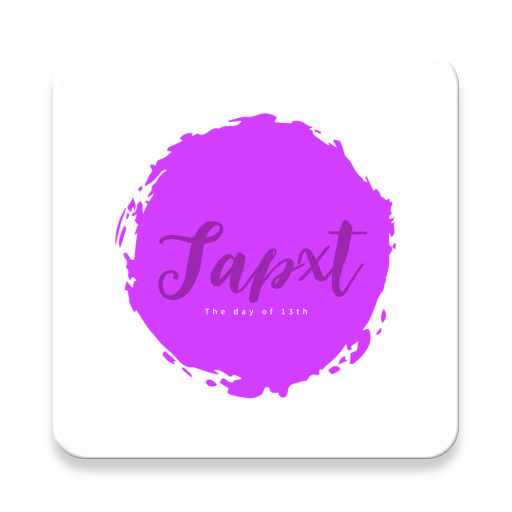
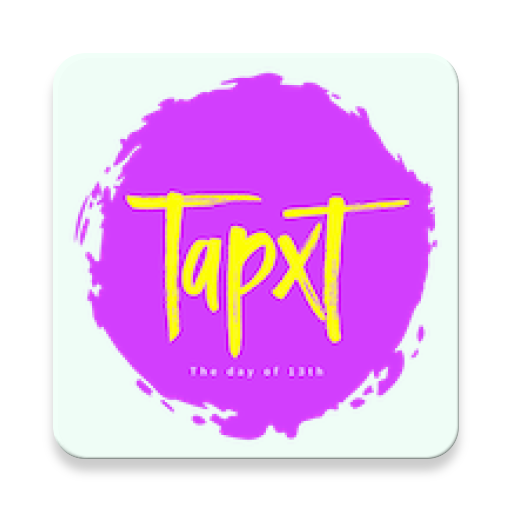
1. 안드로이드 아이콘 추가 2. Intro 페이지 UI 수정 3. Content 페이지 CENTER_BOX Position 콘텐트 지원

Changed region(s): [[0.125, 0.125, 0.875, 0.875]]

diff --git a/Tapxt/app/src/main/java/com/springsthursday/tapxt/view/MainActivity.java b/Tapxt/app/src/main/java/com/springsthursday/tapxt/view/MainActivity.java
@@ -42,34 +42,23 @@ public class MainActivity extends AppCompatActivity implements MainContract.View
     protected void onCreate(Bundle savedInstanceState) {
         super.onCreate(savedInstanceState);
 
+        if (Build.VERSION.SDK_INT >= Build.VERSION_CODES.LOLLIPOP) {
+            getWindow().getDecorView().setSystemUiVisibility(
+                    View.SYSTEM_UI_FLAG_LAYOUT_STABLE
+                            | View.SYSTEM_UI_FLAG_LAYOUT_FULLSCREEN);
+            getWindow().setStatusBarColor(getResources().getColor(android.R.color.transparent, null));
+        }
         setContentView(R.layout.activity_main);
         //transparentStatusAndNavigation();
-        getWindow().addFlags(WindowManager.LayoutParams.FLAG_DRAWS_SYSTEM_BAR_BACKGROUNDS);
-        getWindow().addFlags(WindowManager.LayoutParams.FLAG_TRANSLUCENT_STATUS);
-        getWindow().setNavigationBarColor(getColor(R.color.background));
-        getWindow().setStatusBarColor(getColor(android.R.color.transparent));
+        //getWindow().addFlags(WindowManager.LayoutParams.FLAG_TRANSLUCENT_STATUS);
+
+            getWindow().setNavigationBarColor(getColor(R.color.background));
+        //getWindow().setStatusBarColor(getColor(R.color.titlebar));
 
         if (!NetWorkBrodcastReceiver.getInstance(getApplicationContext()).isOnline())
             Toast.makeText(getApplicationContext(), "네트워크 상태가 불안정합니다", Toast.LENGTH_LONG).show();
 
         this.setUpView();
-    }
-
-
-    private void transparentStatusAndNavigation() {
-        if (Build.VERSION.SDK_INT >= 19 && Build.VERSION.SDK_INT < 21) {
-            setWindowFlag(WindowManager.LayoutParams.FLAG_TRANSLUCENT_STATUS, true);
-        }
-        if (Build.VERSION.SDK_INT >= 19) {
-            getWindow().getDecorView().setSystemUiVisibility(
-                    View.SYSTEM_UI_FLAG_LAYOUT_STABLE
-                            | View.SYSTEM_UI_FLAG_LAYOUT_FULLSCREEN
-            );
-        }
-        if (Build.VERSION.SDK_INT >= 21) {
-            setWindowFlag(WindowManager.LayoutParams.FLAG_TRANSLUCENT_STATUS, false);
-            getWindow().setStatusBarColor(Color.TRANSPARENT);
-        }
     }
 
     private void setWindowFlag(final int bits, boolean on) {
@@ -106,9 +95,6 @@ public class MainActivity extends AppCompatActivity implements MainContract.View
                     homeFragment = new HomeFragment();
                     fragmentManager.beginTransaction().add(R.id.frameLayout, homeFragment).commit();
                 }
-                binding.mainLayout.setFitsSystemWindows(false);
-                this.getWindow().getDecorView().requestFitSystemWindows();
-
                 fragmentManager.beginTransaction().show(homeFragment).commit();
 
                 if (categoryFragment != null)
@@ -136,10 +122,6 @@ public class MainActivity extends AppCompatActivity implements MainContract.View
                     fragmentManager.beginTransaction().add(R.id.frameLayout, profileFragment).commit();
                 }
 
-                binding.mainLayout.setFitsSystemWindows(true);
-                this.getWindow().getDecorView().requestFitSystemWindows();
-
-                //bin.setPadding(0, 0, 0, 0);
                 fragmentManager.beginTransaction().show(profileFragment).commit();
                 if (homeFragment != null)
                     fragmentManager.beginTransaction().hide(homeFragment).commit();

diff --git a/Tapxt/app/src/main/java/com/springsthursday/tapxt/BindingAdapter/ContentAdapter.java b/Tapxt/app/src/main/java/com/springsthursday/tapxt/BindingAdapter/ContentAdapter.java
@@ -1,9 +1,13 @@
 package com.springsthursday.tapxt.BindingAdapter;
 
 import android.annotation.SuppressLint;
+import android.content.Context;
 import android.databinding.DataBindingUtil;
 import android.graphics.Color;
+import android.graphics.ColorFilter;
+import android.graphics.PorterDuff;
 import android.graphics.Typeface;
+import android.graphics.drawable.Drawable;
 import android.graphics.drawable.GradientDrawable;
 import android.support.annotation.NonNull;
 import android.support.v7.widget.RecyclerView;
@@ -32,10 +36,12 @@ public class ContentAdapter extends RecyclerView.Adapter<RecyclerView.ViewHolder
 
     public ArrayList<ContentItem> contentItems = new ArrayList<>();
     private ContentListener listener;
+    private Context context;
 
-    public ContentAdapter(ContentListener listener)
+    public ContentAdapter(ContentListener listener, Context context)
     {
         this.listener = listener;
+        this.context = context;
     }
 
     //region onCreatrViewHolder Method
@@ -67,7 +73,7 @@ public class ContentAdapter extends RecyclerView.Adapter<RecyclerView.ViewHolder
             View view = LayoutInflater.from(parent.getContext()).inflate(R.layout.recyclerview_content_right, parent, false);
             return new RightFirstViewHolder(view);
         }
-        else if(viewType == Code.ContentType.NARRATION_CONTENT)
+        else if(viewType == Code.ContentType.NARRATION_CONTENT || viewType == Code.ContentType.CENTER_BOX_CONTENT)
         {
             View view = LayoutInflater.from(parent.getContext()).inflate(R.layout.recyclerview_content_narration, parent, false);
             return new NarrationViewHolder(view);
@@ -147,6 +153,14 @@ public class ContentAdapter extends RecyclerView.Adapter<RecyclerView.ViewHolder
         }
         else if(holder instanceof NarrationViewHolder) {
             ((NarrationViewHolder) holder).binding.setContentItem(item);
+
+            if(item.getContentType() == Code.ContentType.CENTER_BOX_CONTENT)
+            {
+                ((NarrationViewHolder)holder).binding.content.setBackgroundResource(R.drawable.rectangle_white);
+                GradientDrawable drawable = (GradientDrawable) ((NarrationViewHolder) holder).binding.content.getBackground();
+
+                drawable.setColorFilter(Color.parseColor(item.getBoxColor()) , PorterDuff.Mode.SRC_IN);
+            }
 
             ((NarrationViewHolder) holder).binding.content.setTextColor(Color.parseColor(item.getTextColor()));
             this.setTextViewStyle(((NarrationViewHolder) holder).binding.content, item);

diff --git a/Tapxt/app/src/main/java/com/springsthursday/tapxt/presenter/ContentPresenter.java b/Tapxt/app/src/main/java/com/springsthursday/tapxt/presenter/ContentPresenter.java
@@ -119,7 +119,7 @@ public class ContentPresenter {
         sceneBackgroudSound = new HashMap<>();
         animationSet = new AnimationSet(false);
 
-        adapter.set(new ContentAdapter(new ContextPreSceneClickListener()));
+        adapter.set(new ContentAdapter(new ContextPreSceneClickListener(), context));
         adapter.get().setHasStableIds(true);
         //endregion
     }
@@ -288,7 +288,7 @@ public class ContentPresenter {
 
         if (currentScene == 1) {
             adapter.get().addItem(ContentRepostory.getInstance().getDummyContent(), 0);
-            ;
+
             indexContentOfScene = 0;
         } else {
             ArrayList<ContentItem> itemList = new ArrayList<>();
@@ -397,8 +397,15 @@ public class ContentPresenter {
             this.contextScene(item);
         }
 
+        if(item.getContentAnimation().equals("transparent"))
+        {
+            ((DefaultItemAnimator) recyclerView.getItemAnimator()).setAddDuration(800);
+        }
+
         adapter.get().addItem(item, indexContentOfScene);
         this.scrollToEndPosition();
+
+        ((DefaultItemAnimator) recyclerView.getItemAnimator()).setRemoveDuration(0);
 
         indexContentOfScene++;
         contentsequence++;

diff --git a/Tapxt/app/src/main/java/com/springsthursday/tapxt/BindingAdapter/CommentAdapter.java b/Tapxt/app/src/main/java/com/springsthursday/tapxt/BindingAdapter/CommentAdapter.java
@@ -2,18 +2,14 @@ package com.springsthursday.tapxt.BindingAdapter;
 
 import android.content.Context;
 import android.databinding.DataBindingUtil;
-import android.graphics.Color;
 import android.graphics.PorterDuff;
 import android.graphics.drawable.Drawable;
-import android.graphics.drawable.GradientDrawable;
 import android.support.annotation.NonNull;
 import android.support.v7.widget.RecyclerView;
 import android.view.LayoutInflater;
 import android.view.View;
 import android.view.ViewGroup;
 import android.widget.TextView;
-
-import com.airbnb.lottie.LottieAnimationView;
 import com.springsthursday.tapxt.R;
 import com.springsthursday.tapxt.databinding.RecyclerviewCommentBinding;
 import com.springsthursday.tapxt.item.CommentItem;
@@ -52,7 +48,6 @@ public class CommentAdapter extends RecyclerView.Adapter<RecyclerView.ViewHolder
         }
         else
         {
-
             Drawable drawable =  context.getResources().getDrawable(R.drawable.rectangle_white, null);
             drawable.setColorFilter(context.getResources().getColor(R.color.defaulitViolet, null), PorterDuff.Mode.SRC_IN);
 

diff --git a/Tapxt/app/src/main/java/com/springsthursday/tapxt/view/ContentActivity.java b/Tapxt/app/src/main/java/com/springsthursday/tapxt/view/ContentActivity.java
@@ -6,6 +6,7 @@ import android.content.SharedPreferences;
 import android.databinding.DataBindingUtil;
 import android.graphics.Color;
 import android.graphics.drawable.ColorDrawable;
+import android.os.Build;
 import android.os.Bundle;
 import android.preference.PreferenceManager;
 import android.support.annotation.Nullable;
@@ -55,7 +56,9 @@ public class ContentActivity extends AppCompatActivity implements ContentContrac
     protected void onCreate(@Nullable Bundle savedInstanceState) {
         super.onCreate(savedInstanceState);
 
-        getWindow().setStatusBarColor(getColor(R.color.titlebar));
+        getWindow().setNavigationBarColor(getColor(R.color.background));
+
+        getWindow().setStatusBarColor(getColor(R.color.background));
         getWindow().setNavigationBarColor(getColor(R.color.background));
 
         this.setContentView(R.layout.activity_content);

diff --git a/Tapxt/app/src/main/java/com/springsthursday/tapxt/item/ContentItem.java b/Tapxt/app/src/main/java/com/springsthursday/tapxt/item/ContentItem.java
@@ -29,6 +29,7 @@ public class ContentItem {
     private boolean isItalic = false;
     private String color = "";
     private String background="";
+    private String contentAnimation = "";
 
     public String getEpisodeTitle() {
         return episodeTitle;
@@ -108,6 +109,10 @@ public class ContentItem {
 
     public String getContentTypeForString() {
         return contentTypeForString;
+    }
+
+    public String getContentAnimation() {
+        return contentAnimation;
     }
 
     public void setEpisodeTitle(String episodeTitle) {
@@ -192,5 +197,9 @@ public class ContentItem {
 
     public void setBackground(String background) {
         this.background = background;
+    }
+
+    public void setContentAnimation(String contentAnimation) {
+        this.contentAnimation = contentAnimation;
     }
 }

diff --git a/Tapxt/app/src/main/java/com/springsthursday/tapxt/Code/Code.java b/Tapxt/app/src/main/java/com/springsthursday/tapxt/Code/Code.java
@@ -17,7 +17,7 @@ public class Code {
         public static final int LEFT_SERIES_CONTENT = 3;
         public static final int RIGHT_SERIES_CONTENT = 4;
         public static final int NARRATION_CONTENT = 5;
-        public static final int CENTER_CONTENT = 6;
+        public static final int CENTER_BOX_CONTENT = 6;
         public static final int DUMMY_CONTENT = 7;
         public static final int LEFT_IMAGE = 8;
         public static final int RIGHT_IMAGE = 9;

diff --git a/Tapxt/app/src/main/java/com/springsthursday/tapxt/repository/ContentRepostory.java b/Tapxt/app/src/main/java/com/springsthursday/tapxt/repository/ContentRepostory.java
@@ -100,6 +100,7 @@ public class ContentRepostory {
                 item.setItalic(content.contentProperty().italic());
                 item.setBackground(content.url());
                 item.setColor(content.color());
+                item.setContentAnimation(content.contentAnimation().animation());
 
                 preName = content.character().name();
                 prePosition = content.contentPosition().position();

diff --git a/Tapxt/app/src/main/java/com/springsthursday/tapxt/util/ContentUtil.java b/Tapxt/app/src/main/java/com/springsthursday/tapxt/util/ContentUtil.java
@@ -14,6 +14,10 @@ public class ContentUtil {
         {
             return Code.ContentType.NARRATION_CONTENT;
         }
+        else if(content.contentPosition().position().equals("center_box"))
+        {
+            return Code.ContentType.CENTER_BOX_CONTENT;
+        }
         else if(content.contentPosition().position().equals("left"))
         {
             if(isContextScene == false)

diff --git a/Tapxt/app/src/main/java/com/springsthursday/tapxt/view/ProfileFragment.java b/Tapxt/app/src/main/java/com/springsthursday/tapxt/view/ProfileFragment.java
@@ -79,7 +79,6 @@ public class ProfileFragment extends Fragment implements ProfileContract.View {
 
     @Override
     public void onCreateOptionsMenu(Menu menu, MenuInflater inflater) {
-        menu.clear();
         inflater.inflate(R.menu.menu_appbar_profile, menu);
         super.onCreateOptionsMenu(menu, inflater);
     }
